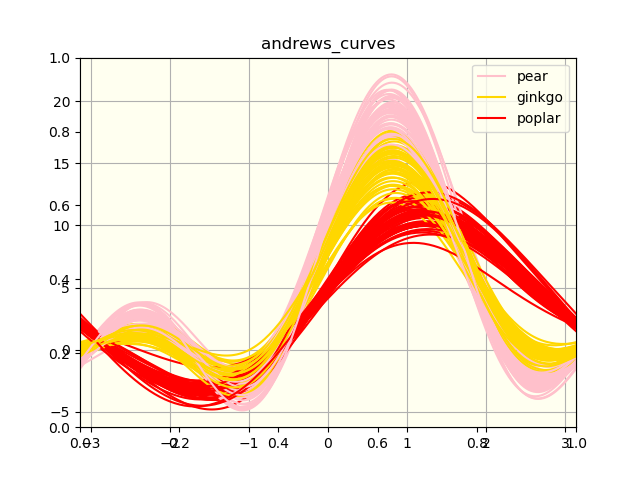
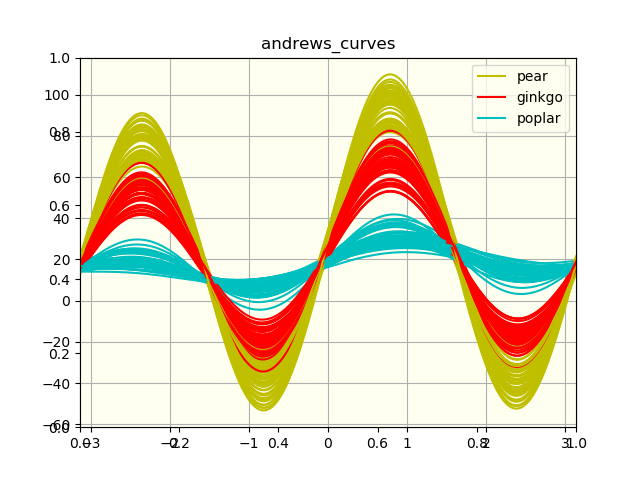
summit KNN 3th

diff --git a/MachineLearningAlgorithm/knn/raw_data_visualization.py b/MachineLearningAlgorithm/knn/raw_data_visualization.py
@@ -37,7 +37,7 @@ plt.rcParams['axes.facecolor'] = 'ivory' # 添加背景色
 plt.title("tree-Dataset") # 添加标题
 plt.xlabel('leaf length') # 添加横坐标标签
 plt.ylabel('leaf width') # 添加纵坐标标签
-plt.scatter(X[y=='poplar',0], X[y=='poplar',1], color='g')
+plt.scatter(X[y=='poplar',0], X[y=='poplar',1], color='lime')
 plt.scatter(X[y=='pear',0], X[y=='pear',1], color='b')
 plt.scatter(X[y=='ginkgo',0], X[y=='ginkgo',1], color='r')
 plt.savefig("./Pictures/raw_scatter.png") # 保存原始数据分布图
@@ -58,5 +58,5 @@ plt.savefig("./Pictures/raw_radviz.png") # 保存原始数据分布图
 # 原始数据可视化（andrews_curves）
 plt.figure('多维度-andrews_curves')
 plt.title('andrews_curves')
-andrews_curves(data, 'Class', color=['pink', 'gold','r'])
+andrews_curves(data, 'Class', color=['y', 'r','c'])
 plt.savefig("./Pictures/raw_andrews_curves.png") # 保存原始数据分布图

diff --git a/MachineLearningAlgorithm/knn/knn.py b/MachineLearningAlgorithm/knn/knn.py
@@ -27,14 +27,12 @@ def gaussian(dist, sigma=10.0):
 """
 class knn:
     def __init__(self,X_train,y_train):
-        self.X_train = None
-        self.y_train = None
-
-    def fit(self,X_train,y_train):
         self.X_train = X_train
-        self.y_train = y_train
+        self.y_train =y_train
 
-    def score(self,X_test, y_test):
+
+
+    def fit(self,X_test, y_test):
         k = 11  # 超参数取11
 
         predict_true = 0  # the num of right predicted
